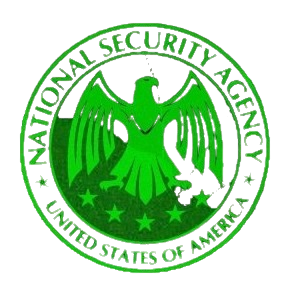
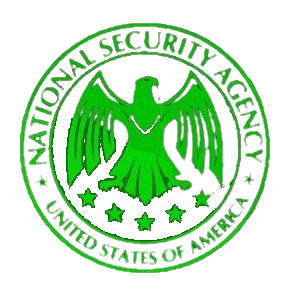
Aggiunta immagine e modificato il CSS per il SRC dell'immagine

Changed region(s): [[0.1552, 0.4034, 0.7448, 0.8379], [0.4655, 0.4345, 0.5276, 0.4655], [0.2793, 0.5276, 0.3103, 0.5586]]

diff --git a/index.html b/index.html
@@ -14,7 +14,7 @@
 
     <header class="site clearfix">
       <div class="col one">
-        <img src="Images/green-back.png" alt="Razzo" width="740" height="729" id="logo-v" />
+        <img src="Images/green-back-export.png" alt="Razzo" width="740" height="729" id="logo-v" />
       </div>
       <div class="col two">
         <h4>Progetto Adaims <br /> <b>A</b>ir <b>D</b>efense <b>A</b>dministrator <b>I</b>ntegrated <b>M</b>essage <b>S</b>ystem</h4>
